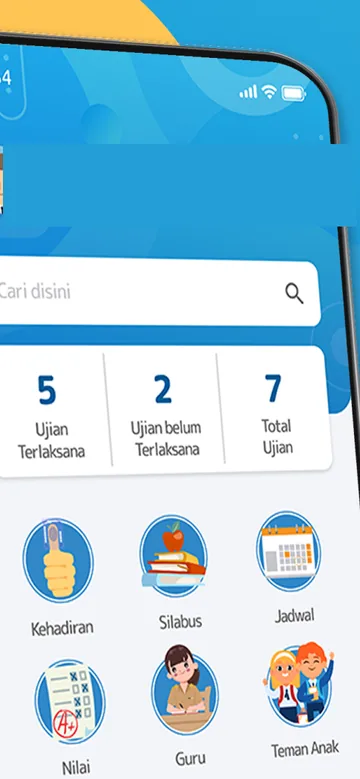
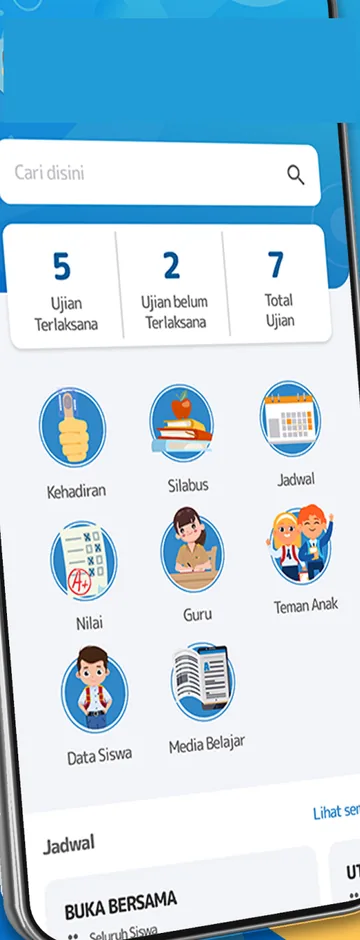
fix: correct the Pijar screenshot crop and single-image gallery layout
- the Pijar poster crop was anchored at 32% of the poster, but the phone screen
  starts at 38%: the thumbnail carried a band of flat blue poster background on top
  and cut the screen at 75% (the phone actually ends at 92.9%)
- the gallery forced a 4-column grid, leaving a single image tiny with half the row empty;
  a single image now renders at its own aspect ratio, larger and uncropped
- re-verify the redaction by reading the region at 2x zoom (measurement alone had been
  misleading: the header text sits at 4.6-11% of the crop, not 20-27%)

diff --git a/components/ProjectGallery.jsx b/components/ProjectGallery.jsx
@@ -53,11 +53,22 @@ export default function ProjectGallery({ images = [], className = '' }) {
 
   if (!images?.length) return null
 
+  // Kalau cuma ada 1 gambar (Pijar Sekolah), jangan pakai grid 4 kolom —
+  // satu thumbnail di grid 4 kolom terlihat kerdil dan setengah kolomnya kosong.
+  // Sekaligus tampilkan utuh sesuai rasio aslinya, jadi layarnya tidak
+  // dipotong oleh kontainer rasio tetap.
+  const isSingle = images.length === 1
   const current = openIndex === null ? null : images[openIndex]
 
   return (
     <div className={className}>
-      <ul className="grid grid-cols-2 gap-4 sm:grid-cols-3 md:grid-cols-4">
+      <ul
+        className={
+          isSingle
+            ? 'max-w-[200px]'
+            : 'grid grid-cols-2 gap-4 sm:grid-cols-3 md:grid-cols-4'
+        }
+      >
         {images.map((image, index) => (
           <li key={image.id}>
             <button
@@ -70,7 +81,9 @@ export default function ProjectGallery({ images = [], className = '' }) {
               className="group block w-full rounded-md text-left focus-visible:outline focus-visible:outline-2 focus-visible:outline-offset-4 focus-visible:outline-secondary"
             >
               <span
-                className={`block overflow-hidden rounded-md border border-outline-variant/50 bg-surface-container ${ASPECT}`}
+                className={`block overflow-hidden rounded-md border border-outline-variant/50 bg-surface-container ${
+                  isSingle ? '' : ASPECT
+                }`}
               >
                 <Image
                   src={`/portfolio/${image.id}-sm.webp`}
@@ -78,7 +91,11 @@ export default function ProjectGallery({ images = [], className = '' }) {
                   width={THUMB_W}
                   height={Math.round((image.h * THUMB_W) / image.w)}
                   sizes="180px"
-                  className="h-full w-full object-cover object-top transition-transform duration-500 group-hover:scale-[1.03]"
+                  className={
+                    isSingle
+                      ? 'h-auto w-full'
+                      : 'h-full w-full object-cover object-top transition-transform duration-500 group-hover:scale-[1.03]'
+                  }
                 />
               </span>
               {/* min-h supaya caption 1 baris dan 2 baris tetap sejajar

diff --git a/data/resume.js b/data/resume.js
@@ -76,8 +76,8 @@ export const experience = [
         images: [
           {
             id: 'pijar-1',
-            w: 485,
-            h: 1049,
+            w: 513,
+            h: 1339,
             caption: 'Guardian dashboard',
             alt: 'Pijar Sekolah app screen: parent/guardian dashboard with exam summary and feature shortcuts. Student name redacted.',
           },
